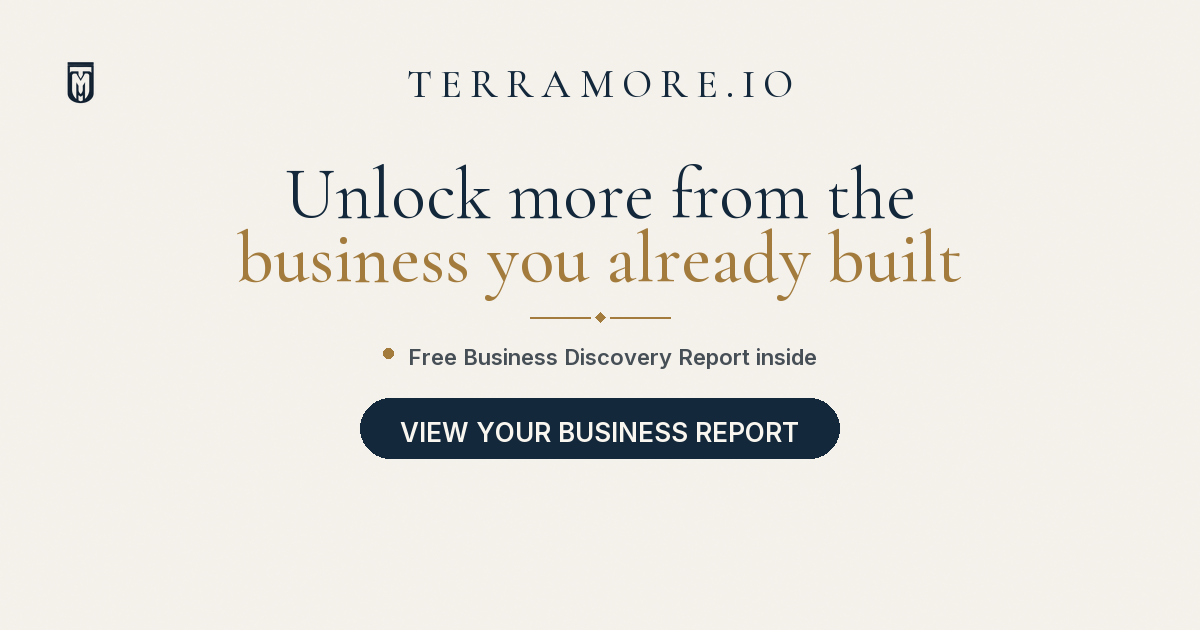
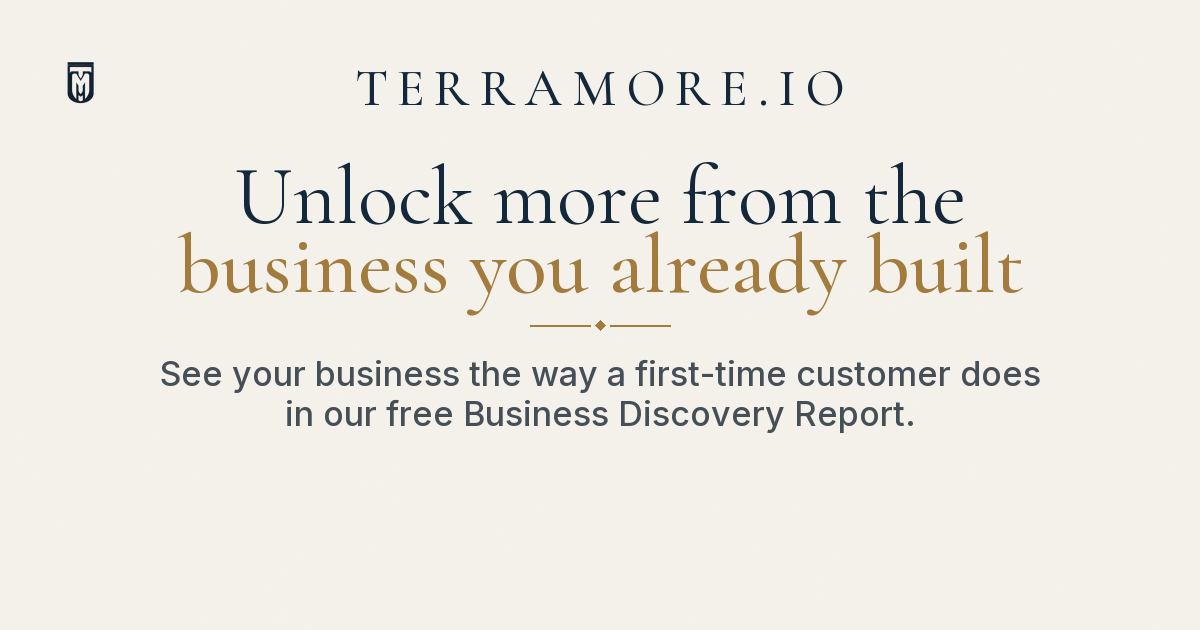
Enlarge share-card type and drop the button for text readability.

Changed region(s): [[0.1233, 0.2413, 0.8633, 0.754], [0.3083, 0.0905, 0.7092, 0.181]]

diff --git a/DEVELOPMENT_LOG.md b/DEVELOPMENT_LOG.md
@@ -1,5 +1,9 @@
 # Development Log - Terramore Website
 
+## 2026-09-14 — Share card type bump
+
+- Horizontal OG card: button removed; report line is the support copy. All type sizes increased ~two steps for text-thumbnail readability. Asset: `/share/terramore-share-v2-og.png`.
+
 ## 2026-09-14 — Horizontal share card
 
 - Open Graph / text preview now uses a 1200×630 landscape Version 2 card at `/share/terramore-share-v2-og.png` so iMessage and social previews stay horizontal.
